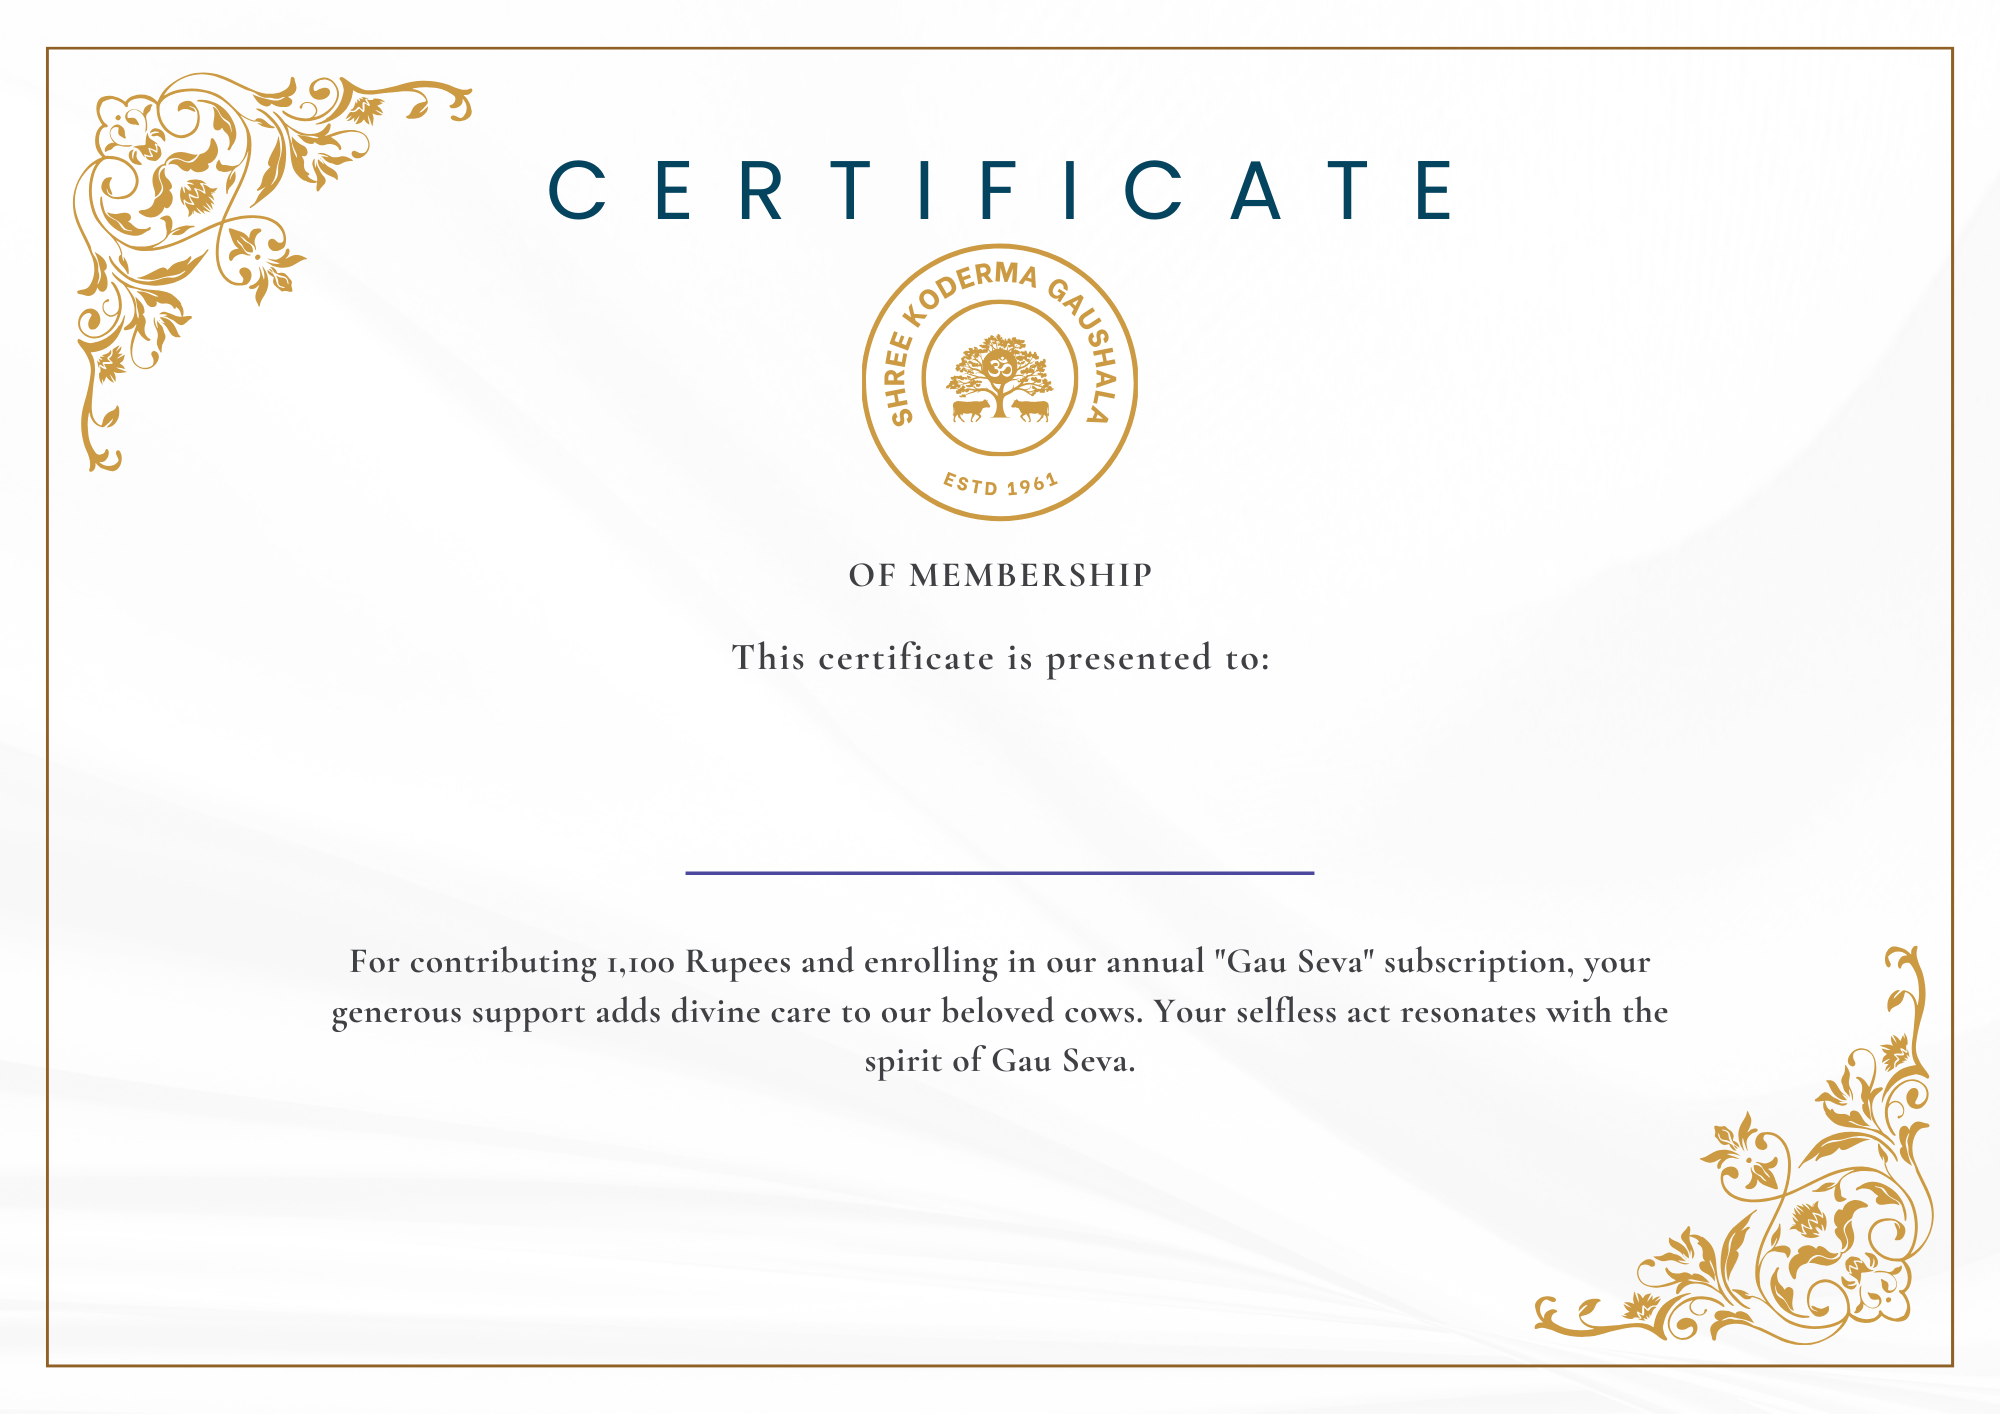
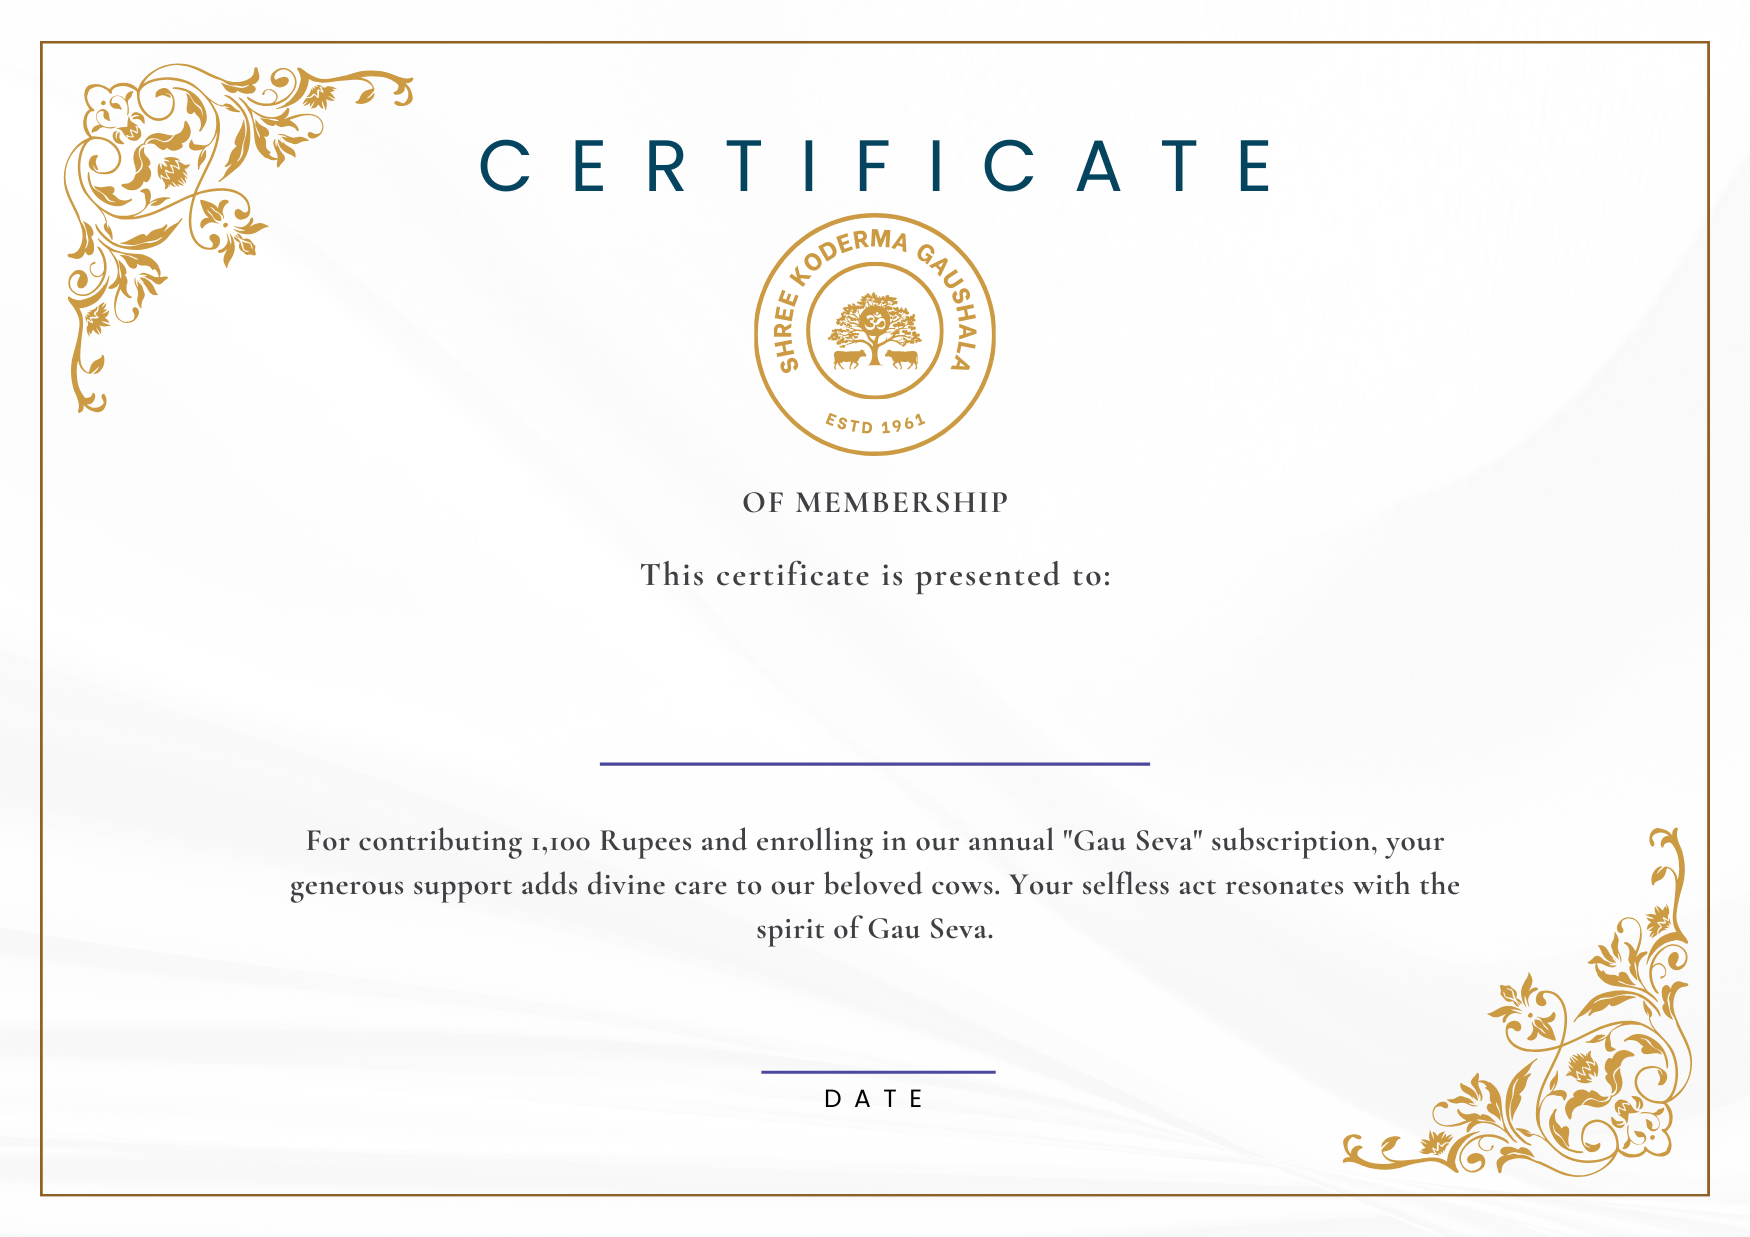
cert dowload by type /w date, pan in reciept, mothly changed to one time

diff --git a/src/components/donate/Popup-thankyou/ThankYou.js b/src/components/donate/Popup-thankyou/ThankYou.js
@@ -6,7 +6,7 @@ import logo from '../../../assets/logo.png'
 import certYearly from '../../../assets/cert.png'
 import certLifetime from '../../../assets/cert2.png'
 
-const ThankYou = ({ onClose, formData,showDownloadCertificateButton,subscriptionType}) => {
+const ThankYou = ({ onClose, formData, showDownloadCertificateButton, subscriptionType }) => {
   const [downloadingReceipt, setDownloadingReceipt] = useState(false);
   const [downloadingCertificate, setDownloadingCertificate] = useState(false);
 
@@ -15,7 +15,7 @@ const ThankYou = ({ onClose, formData,showDownloadCertificateButton,subscription
       unit: 'mm',
       format: 'a4',
       orientation: 'portrait',
-      height:30,
+      height: 30,
     });
     // Add logo
     const logoWidth = 25; // Adjust the width of the logo
@@ -24,36 +24,38 @@ const ThankYou = ({ onClose, formData,showDownloadCertificateButton,subscription
 
     doc.setFont('helvetica', 'bold');
 
-  // Add gaushala name in bold
-  doc.text('SHREE KODERMA GAUSHALA SAMITY', 55, 20);
-  // Reset font to normal
-  doc.setFont('helvetica', 'normal');
-  doc.setFontSize(9);
-  doc.text('Yadutand, PO Jhumri Telaiya, Koderma, Jharkhand 825409', 65, 25); 
-  doc.setFontSize(16);
-  doc.text('Donation Receipt', 88, 35);
-  doc.setFontSize(12);
-  doc.text(`Reciept No:                        ${formData.order_id}`, 20, 60);
-  doc.text(`Date:                                  ${formData.datetime.split(',')[0].trim()}`, 20, 70);
+    // Add gaushala name in bold
+    doc.text('SHREE KODERMA GAUSHALA SAMITY', 55, 20);
+    // Reset font to normal
+    doc.setFont('helvetica', 'normal');
+    doc.setFontSize(9);
+    doc.text('Yadutand, PO Jhumri Telaiya, Koderma, Jharkhand 825409', 65, 25);
+    doc.text('PAN No : AANAS2643F',95,30 )
+    doc.setFontSize(16);
+    doc.text('Donation Receipt', 90, 40);
+    doc.setFontSize(12);
+    
+    doc.text(`Reciept No:                        ${formData.order_id}`, 20, 60);
+    doc.text(`Date:                                  ${formData.datetime.split(',')[0].trim()}`, 20, 70);
 
-  doc.text(`Donated By:                        ${formData.name}`, 20, 80);
-  doc.text(`Donation Amount:               Rs. ${formData.amount}`, 20, 90);
-  doc.text(`Donor Phone Number:        ${formData.phone_num}`, 20, 100);
-  doc.text(`Donor email:                        ${formData.email}`, 20, 110);
-  doc.text(`Donor Address:                   ${formData.address}`, 20, 120);
-  doc.text(`Donation Pan Number:       ${formData.pan_number.toUpperCase() }`, 20, 130);
-  doc.text(`Donation For:                      ${formData.product}`, 20, 140);
-  doc.text(`Units Donated:                    ${formData.units}`, 20, 150);
-  doc.text(`Donation Type:                   ${formData.type}`, 20, 160);
-  
-  doc.setFontSize(12)
-  doc.text(`Tax exempted under section 80G(5)(iii) of Income tax vide registration No. AANAS2643FF20231`,20,180);
-  doc.setFontSize(8)
-  doc.text('Please note this is an electronically generated receipt, hence does not require a signature or stamp',45,190);
-  
-  // ... Add more content as needed
+    doc.text(`Donated By:                        ${formData.name}`, 20, 80);
+    doc.text(`Donation Amount:               Rs. ${formData.amount}`, 20, 90);
+    doc.text(`Donor Phone Number:        ${formData.phone_num}`, 20, 100);
+    doc.text(`Donor email:                        ${formData.email}`, 20, 110);
+    doc.text(`Donor Address:                   ${formData.address}`, 20, 120);
+    doc.text(`Donation Pan Number:       ${formData.pan_number.toUpperCase()}`, 20, 130);
+    doc.text(`Donation For:                      ${formData.product}`, 20, 140);
+    doc.text(`Units Donated:                    ${formData.units}`, 20, 150);
+    doc.text(`Donation Type:                   ${formData.type}`, 20, 160);
 
-  return doc.output('blob'); // Output as a blob for download
+    doc.setFontSize(12)
+    doc.text(`Tax exempted under section 80G(5)(iii) of Income tax vide registration No. AANAS2643FF20231`, 20, 180);
+    doc.setFontSize(8)
+    doc.text('Please note this is an electronically generated receipt, hence does not require a signature or stamp', 45, 190);
+
+    // ... Add more content as needed
+
+    return doc.output('blob'); // Output as a blob for download
   };
 
   const downloadReceipt = async () => {
@@ -85,12 +87,32 @@ const ThankYou = ({ onClose, formData,showDownloadCertificateButton,subscription
     console.log("download triggered")
     // Trigger the download action when the component mounts
     downloadReceipt();
-  
+
     // Cleanup function to ensure it runs only once
     return () => {
       // Clear any resources or subscriptions if needed
     };
   }, []); // Empty dependency array ensures this effect runs once on mount
+
+  const getcurrDate = () => {
+    const currentDate = new Date();
+
+    // Define months in an array for easy conversion
+    const months = ['January', 'February', 'March', 'April', 'May', 'June', 'July', 'August', 'September', 'October', 'November', 'December'];
+
+    // Get day, month, and year
+    const day = currentDate.getDate();
+    const monthIndex = currentDate.getMonth(); // Months are zero-indexed
+    const year = currentDate.getFullYear();
+
+    // Format the date
+    const formattedDate = `${day} ${months[monthIndex]} ${year}`;
+    return formattedDate;
+  }
+  
+  
+
+
   const generateCert = () => {
     const doc1 = new jsPDF({
       unit: 'mm',
@@ -98,11 +120,14 @@ const ThankYou = ({ onClose, formData,showDownloadCertificateButton,subscription
       orientation: 'landscape',
       height: 30,
     });
-    const certificateImage = subscriptionType === 'lifetime' ? certLifetime : certYearly; 
+
+    const certificateImage = subscriptionType === 'lifetime' ? certLifetime : certYearly;
     doc1.addImage(certificateImage, 'PNG', 0, 0, doc1.internal.pageSize.getWidth(), doc1.internal.pageSize.getHeight());
     doc1.setFontSize(30);
     doc1.setFont('helvetica'); // Change the font family and style
-    doc1.text( `${formData.name}`, 150, 127, { align: 'center' });
+    doc1.text(`${formData.name}`, 150, 127, { align: 'center' });
+    doc1.setFontSize(15)
+    doc1.text(`${getcurrDate()}`,129,180);
     return doc1.output('blob');
 
   }

diff --git a/src/components/homepage/MonthlyMission/MonthlyMission.js b/src/components/homepage/MonthlyMission/MonthlyMission.js
@@ -14,7 +14,7 @@ const MonthlyMission = () => {
   const handleAmountSelect = (amount) => {
     setSelectedAmount(amount);
   };
-  console.log(selectedAmount,17)
+  console.log(selectedAmount, 17)
   const handleSubscribe = () => {
     // Check if an amount is selected
     if (selectedAmount !== null) {
@@ -29,11 +29,11 @@ const MonthlyMission = () => {
       // Set the popup state with the additional data
       setShowPopup({ ...additionalData, show: true });
     }
-    else{
+    else {
       setSelectedAmount(null);
     }
   };
-  const handleShowThankYou = (show,formData) => {
+  const handleShowThankYou = (show, formData) => {
     setShowThankYou(show);
     setThankYouData(formData);
   };
@@ -62,18 +62,17 @@ const MonthlyMission = () => {
 
   return (
     <div ref={componentRef} className="monthly-mission container mt-5">
-      <h2 className='monthly-mission-heading'>Join Monthly Mission</h2>
-      <p className='monthly-mission-subheading'>Support our cause with a monthly contribution</p>
+      <h2 className='monthly-mission-heading'>Support our cause with a donation</h2>
+      <p className='monthly-mission-subheading'>Your donation will directly support and care for the well-being of the cows in our gaushala, providing them with essential care, nourishment, and a safe environment.</p>
 
       <div className="subscription-buttons">
         {subscriptionAmounts.map((amount, index) => (
           <button
-          key={index}
-          className={`monthly-mission-btn btn btn-primary mx-2 mb-2 ${
-            selectedAmount === amount ? 'selected' : ''
-          }`}
-          onClick={() => handleAmountSelect(amount)}
-        >
+            key={index}
+            className={`monthly-mission-btn btn btn-primary mx-2 mb-2 ${selectedAmount === amount ? 'selected' : ''
+              }`}
+            onClick={() => handleAmountSelect(amount)}
+          >
             ₹{amount}
           </button>
         ))}
@@ -85,8 +84,8 @@ const MonthlyMission = () => {
           disabled={selectedAmount === null}>SUBSCRIBE</button>
       </div>
       {/* {showPopup.show && <Popup onClose={() => setShowPopup({ ...showPopup, show: false })} donationInfo={showPopup} />} */}
-      {showPopup && <Popup onShowThankYou={handleShowThankYou}  donationInfo={showPopup} onClose={closePopup} />}
-      {  showThankYou && <ThankYou onClose={() => setShowThankYou(false)} formData={thankYouData} />}
+      {showPopup && <Popup onShowThankYou={handleShowThankYou} donationInfo={showPopup} onClose={closePopup} />}
+      {showThankYou && <ThankYou onClose={() => setShowThankYou(false)} formData={thankYouData} />}
     </div>
   );
 };

diff --git a/src/components/homepage/Lifetime/Lifetime.js b/src/components/homepage/Lifetime/Lifetime.js
@@ -37,7 +37,7 @@ const Lifetime=()=> {
       </button>
       {/* {showPopup.show && <Popup onClose={() => setShowPopup({ ...showPopup, show: false })} donationInfo={showPopup} />} */}
       {showPopup && <Popup onShowThankYou={handleShowThankYou}  donationInfo={showPopup} onClose={closePopup} />}
-      {  showThankYou && <ThankYou showDownloadCertificateButton={true} onClose={() => setShowThankYou(false)} formData={thankYouData}/>}
+      {  showThankYou && <ThankYou showDownloadCertificateButton={true} onClose={() => setShowThankYou(false)} formData={thankYouData} subscriptionType={"lifetime"}/>}
     </div>
   );
 }

diff --git a/src/components/donate/Popup/Popup.js b/src/components/donate/Popup/Popup.js
@@ -171,7 +171,7 @@ const Popup = ({ onClose, donationInfo, onShowThankYou }) => {
       formData.name !== "" &&
       formData.address !== "" &&
       formData.email !== "" &&
-      formData.phone_num !== ""
+      formData.phone_num !== "" || true
     );
   };
 

diff --git a/src/components/homepage/MonthlyMission/MonthlyMission.css b/src/components/homepage/MonthlyMission/MonthlyMission.css
@@ -12,10 +12,10 @@ text-transform: uppercase;
 }
 .monthly-mission-subheading{
 
-font-size: 1.3rem;
+font-size: 1.2rem;
 font-style: normal;
 font-weight: 400;
-line-height: 2.875rem; 
+line-height: 2.5rem; 
 text-transform: capitalize;
 }
 .monthly-mission-btn{
